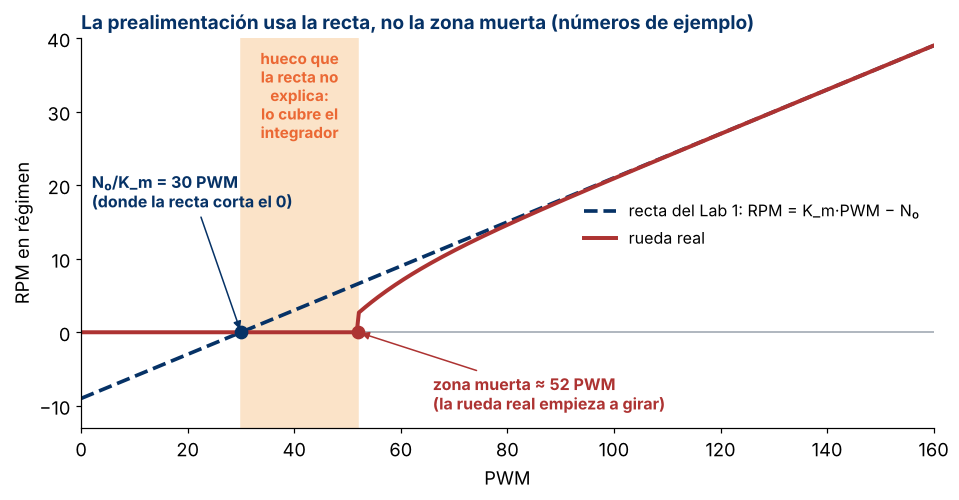
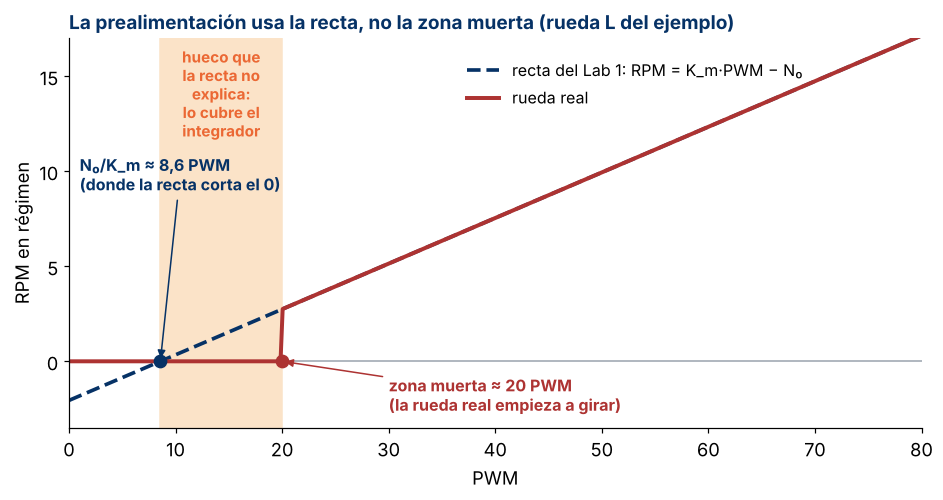
Guía del lazo de RPM v2: notebook, rutas actuales y figuras
- Sección 4 nueva: el notebook taller2_diseno.ipynb en la práctica (antes,
  durante y después del robot), con diagrama de flujo y tabla por sección
- Rutas del proyecto único con selector: src/control_rpm.cpp, src/config.h,
  src/lazo_config.h y PROGRAMA = PROG_CONTROL_RPM (lazo_rpm/ era la versión anterior)
- Figuras: respuesta del motor (K_m, τ, L), ventana de 5 y 10 ms, partes del PWM
  (GIF), efecto de λ (GIF), métricas del escalón y zona muerta con el ejemplo
- README: el procedimiento apunta a la versión 2

diff --git a/GUIA_LAZO_RPM_v2.md b/GUIA_LAZO_RPM_v2.md
@@ -13,8 +13,8 @@
 | Unidad | Modelado del balancín y diseño de los lazos de control |
 | Sesión | 10B · viernes 6 de noviembre de 2026 · 14:00 a 16:00 |
 | Modalidad | Grupal (equipo del proyecto) |
-| Herramientas | Sketch `lazo_rpm/` de este repositorio (PlatformIO o Arduino IDE) y el notebook `notebook/taller2_diseno.ipynb` |
-| Entra con | `resultados/parametros_motor_G<n>.json` del Lab 1 y el `config.h` del Lab 1 |
+| Herramientas | Programa `src/control_rpm.cpp` de este repositorio, que se escoge en `src/main.cpp` (PlatformIO o Arduino IDE), y el notebook `notebook/taller2_diseno.ipynb` (sección 4 de esta guía) |
+| Entra con | `resultados/parametros_motor_G<n>.json` y `src/config.h`, los dos del Lab 1 |
 | Entrega | Con el Taller 2, antes de la clase del miércoles 11 de noviembre |
 
 ---
@@ -31,7 +31,7 @@ Hoy el lazo se diseña con las fórmulas y se verifica en el robot. Si la medida
 
 **Cada rueda tiene su propio lazo, con su propio encoder.** No se usa una rueda como seguidora de la otra.
 
-Si un canal B está dañado, ese encoder cuenta con un solo canal (x2, es decir, dos flancos por pulso) y no puede saber hacia dónde gira la rueda. Entonces el sentido de las cuentas se toma del signo del PWM. El sketch solo cambia ese sentido cuando la rueda está casi detenida, pero cerca del cruce por cero (ensayos B4 y B5) la medida de esa rueda es menos confiable. La solución definitiva es reparar el canal B.
+Si un canal B está dañado, ese encoder cuenta con un solo canal (x2, es decir, dos flancos por pulso) y no puede saber hacia dónde gira la rueda. Entonces el sentido de las cuentas se toma del signo del PWM. El programa solo cambia ese sentido cuando la rueda está casi detenida, pero cerca del cruce por cero (ensayos B4 y B5) la medida de esa rueda es menos confiable. La solución definitiva es reparar el canal B.
 
 ---
 
@@ -60,9 +60,17 @@ $$
 \frac{RPM(s)}{PWM(s)} = \frac{K_m\,e^{-Ls}}{\tau s + 1}
 $$
 
+Así se ve cada parámetro en la respuesta del motor a un escalón de PWM:
+
+![Respuesta del motor a un escalón de PWM](img/lazo_rpm/motor_escalon.png)
+
 ### 3.2 Las partes
 
 El lazo se calcula una vez por **ciclo**, es decir, en cada pasada del programa de control: leer el encoder, calcular y mandar el PWM. El ciclo se repite cada $T_s = 5$ ms. La RPM se mide con las cuentas de los últimos **10 ms** (dos ciclos). Con menos tiempo, una cuenta de más o de menos cambiaría mucho la RPM medida: con unas 2500 cuentas por vuelta, la resolución es de 2,4 RPM con 10 ms y de 4,8 RPM con 5 ms.
+
+![La misma rueda medida con ventanas de 5 y 10 ms](img/lazo_rpm/ventana_medicion.png)
+
+La RPM real cambia suave, pero la medida salta entre valores fijos. Con 5 ms los saltos son del doble, y ese ruido le llega al PI.
 
 El PWM que se manda a cada rueda tiene tres partes:
 
@@ -81,7 +89,16 @@ $r$ es la RPM deseada, $y$ la RPM medida, $e$ el error, $u_{ff}$ la prealimentac
 | Criterio de K | **Por sentido**: con consigna positiva se usan K_m y N₀ de adelante, y con negativa los de atrás | En el equilibrio la rueda cambia de sentido todo el tiempo. El criterio promediado queda para comparar |
 | Modelo de referencia (opcional) | El error se calcula contra la consigna pasada por un filtro de primer orden con constante de tiempo τ: la respuesta que se espera del motor | Durante la subida, el error es pequeño, el PI deja de empujar de más y baja el sobrepico |
 
-Así queda en el código, en la función `pasoLazo()`, que se llama una vez por ciclo para cada rueda:
+La animación muestra qué pone cada parte en un escalón de 10 a 30 RPM, con el motor del ejemplo:
+
+![Qué pone cada parte del PWM en un escalón](img/lazo_rpm/partes_pwm.gif)
+
+- **Antes del escalón**, $u_{ff}$ pone casi todo el PWM y la integral cubre lo poco que falta.
+- **En el escalón**, $u_{ff}$ salta de una vez al PWM de 30 RPM y la parte P reacciona al error.
+- **Durante la subida**, la integral sigue sumando mientras haya error. Esa suma es la que produce el sobrepico.
+- **En régimen**, el error es casi cero, P también, y la integral corrige lo que la recta no explica.
+
+Así queda en el código, en la función `pasoLazo()` de `src/control_rpm.cpp`, que se llama una vez por ciclo para cada rueda:
 
 ```cpp
 static float pasoLazo(Rueda &w, float r, float y, float dt)
@@ -138,6 +155,12 @@ $$T_i = \tau, \qquad K_p = \frac{\tau}{K_m(\lambda + L_{total})}, \qquad K_i = \
 | $\lambda$ | La constante de tiempo que **ustedes** le piden al lazo cerrado. Más pequeña: más rápido, pero más sobrepico y más ruido en el PWM. Se empieza con **λ = 50 ms** |
 | $L_{total}$ | Todos los retardos que ve el lazo: el del motor ($L$), medio periodo de muestreo ($T_s/2$) y media ventana de medición ($T_v/2$, con $T_v = 10$ ms). Con $T_s = 5$ ms son unos 10 ms |
 
+La animación muestra el efecto de $\lambda$ con solo el PI, sin prealimentación (como en el ensayo B8):
+
+![Efecto de λ en la respuesta y en el PWM](img/lazo_rpm/efecto_lambda.gif)
+
+Con $\lambda$ pequeña, $K_p$ y $K_i$ crecen: la rueda sube más rápido, pero el PWM salta más y repite más el ruido de la medida. Con $\lambda$ grande la respuesta es más lenta y el PWM más suave.
+
 Sin prealimentación, el lazo cerrado es de primer orden con constante de tiempo $\lambda$. Con prealimentación, la subida la pone casi toda el motor, porque el PWM correcto llega de una vez, y el PI corrige lo que falta. Por eso el escalón sale más rápido que $\lambda$, pero con sobrepico.
 
 **¿Por qué la prealimentación usa $N_0/K_m$ y no la zona muerta que midieron?** $N_0/K_m$ es el PWM donde la recta, extendida hacia abajo, llega a 0 RPM. La rueda real se detiene antes, porque por debajo de la zona muerta no gira de forma sostenida:
@@ -148,7 +171,29 @@ Entre $N_0/K_m$ y la zona muerta queda un hueco que la recta no explica, y ese h
 
 ---
 
-## 4. Materiales
+## 4. El notebook `taller2_diseno.ipynb` en esta práctica
+
+El notebook es la parte de esta práctica que se hace en el computador. Hace tres cosas: diseña el lazo con el modelo del Lab 1, predice cómo debe responder cada rueda y, al final, compara esa predicción con lo que se midió en el robot. Por eso se usa **antes** y **después** del trabajo en el robot:
+
+<img src="img/lazo_rpm/notebook_flujo.png" alt="Orden de trabajo entre el notebook y el robot" width="460">
+
+| Cuándo | Sección del notebook | Qué hace | Qué entrega |
+|---|---|---|---|
+| Antes (paso A4) | 0. Configuración | Se escriben el grupo y la ruta de su JSON | — |
+| | 1. Revisión del JSON | Revisa cada parámetro del Lab 1 y lo marca OK, REVISAR o FALTA | Saber si se puede confiar en el modelo |
+| | A.1 y A.2 | Calcula Kp y Ki de cada rueda y sentido con las fórmulas de la sección 3.3 | La tabla de Kp y Ki, y el archivo `src/lazo_config.h` |
+| | A.3 | Simula el lazo con el mismo algoritmo del programa, línea por línea, y con el motor del Lab 1 | La predicción del escalón de 10 a 30 RPM |
+| En el robot (partes A y B) | — | No se usa: se carga el programa y se hacen los ensayos | Los CSV en `datos/G<n>_lazo/` |
+| Después (parte C) | A.4 | Simula cada ensayo con el mismo diseño con que se corrió y lo compara con la medida | La tabla de medida frente a modelo |
+| | Preguntas 4 y 5 | Análisis con los números de su robot | Las respuestas para la entrega |
+
+El orden no se puede cambiar. El programa del robot necesita `src/lazo_config.h`, y ese archivo lo escribe el notebook. A su vez, la comparación de la parte C necesita los ensayos medidos.
+
+La parte B del notebook (B.1 a B.5: la rueda como fuente de velocidad y las ganancias del equilibrio) no es de esta práctica. Es el resto del Taller 2, y se usa en la guía de la estructura de estados.
+
+---
+
+## 5. Materiales
 
 | Elemento | Detalle |
 |---|---|
@@ -156,29 +201,39 @@ Entre $N_0/K_m$ y la zona muerta queda un hueco que la recta no explica, y ese h
 | Cable USB | Al puerto UART/COM de la placa |
 | Multímetro | Para medir la batería |
 | Computador | VS Code con PlatformIO (o Arduino IDE) y Python con Jupyter (VS Code o Google Colab) |
-| Archivos del Lab 1 | `parametros_motor_G<n>.json` y `config.h` |
+| Archivos del Lab 1 | `parametros_motor_G<n>.json` y `src/config.h` |
 
 ---
 
-## 5. Procedimiento
+## 6. Procedimiento
 
 ### Parte A · Diseño y preparación (15 min)
 
 | Paso | Qué hacer | Qué deben ver | Si sale mal |
 |---|---|---|---|
-| A1 | Actualicen este repositorio (`git pull` o *Download ZIP*) | Las carpetas `lazo_rpm/` y `datos/ejemplo_sintetico_lazo/` | — |
+| A1 | Actualicen este repositorio (`git pull` o *Download ZIP*) | `src/control_rpm.cpp` y la carpeta `datos/ejemplo_sintetico_lazo/` | — |
 | A2 | Si su JSON no dice `"version": 2`, vuelvan a ejecutar `ajuste_motor.ipynb` con sus datos del Lab 1 | `"version": 2` en el JSON | — |
-| A3 | Copien **su** `config.h` del Lab 1 encima de `lazo_rpm/src/config.h`, tal cual | — | Si lo editan a mano, repitan la prueba de sentido del Lab 1 |
-| A4 | En `taller2_diseno.ipynb`, celda 0, cambien `GRUPO` y `RUTA_JSON`. Ejecuten hasta la sección A.2 | El semáforo del JSON, la tabla de Kp y Ki, y el archivo `lazo_rpm/src/lazo_config.h` escrito | Si hay un FALTA, completen el Lab 1. Si hay un REVISAR, sepan explicarlo |
-| A5 | Abran la carpeta `lazo_rpm` en VS Code como proyecto de PlatformIO. Compilen y carguen | El mensaje de arranque con el modelo de cada rueda y sus Kp y Ki | Si un encoder está en un pin de arranque (GPIO 0, 3, 45 o 46), desconéctelo mientras carga |
+| A3 | Revisen que `src/config.h` sea **el suyo** del Lab 1: pines, signos y cuentas por vuelta. Los dos programas lo comparten. Si descargaron el ZIP, copien el suyo encima, tal cual | — | Si lo editan a mano, repitan la prueba de sentido del Lab 1 |
+| A4 | En `taller2_diseno.ipynb`, celda 0, cambien `GRUPO` y `RUTA_JSON`. Ejecuten hasta la sección A.3 (sección 4 de esta guía) | El semáforo del JSON, la tabla de Kp y Ki, el archivo `src/lazo_config.h` escrito y la predicción del escalón | Si hay un FALTA, completen el Lab 1. Si hay un REVISAR, sepan explicarlo |
+| A5 | En `src/main.cpp` dejen `#define PROGRAMA  PROG_CONTROL_RPM`. Compilen y carguen el proyecto, abierto desde la carpeta raíz del repositorio | El mensaje de arranque con el modelo de cada rueda y sus Kp y Ki | Si un encoder está en un pin de arranque (GPIO 0, 3, 45 o 46), desconéctelo mientras carga |
 | A6 | Comparen los Kp y Ki del monitor con la tabla del notebook | Iguales en las dos ruedas y en los dos sentidos | Si no coinciden, el `lazo_config.h` no es el de su JSON |
 | A7 | Midan la batería y anótenla: `b 7.9` (con su valor) | `Batería: 7.90 V` | — |
 
-**Arduino IDE:** creen una carpeta `lazo_rpm`, copien ahí `config.h`, `lazo_config.h` y `main.cpp`, y cambien el nombre de `main.cpp` a `lazo_rpm.ino`.
+**Arduino IDE:** creen una carpeta `control_rpm`, copien ahí `src/config.h`, `src/lazo_config.h` y `src/control_rpm.cpp`, y cambien el nombre de `control_rpm.cpp` a `control_rpm.ino`.
 
 ### Parte B · Escalones de consigna en el robot (20 min)
 
 Robot en el soporte, ruedas en el aire. Cada escalón dura 2,2 s: 500 ms en la base, 1000 ms en el escalón y 700 ms de regreso a la base. **Enter detiene los motores en cualquier momento.**
+
+En cada escalón se miden tres cosas:
+
+![Un escalón y lo que se mide en él](img/lazo_rpm/escalon_metricas.png)
+
+- **Subida 10–90 %:** el tiempo que tarda la RPM medida en pasar del 10 % al 90 % del salto. En un escalón de 10 a 30 RPM, de 12 a 28 RPM.
+- **Sobrepico:** cuánto se pasa la RPM de la consigna, como porcentaje del salto: $(\text{máximo} - 30)/20 \times 100\ \%$.
+- **Error en régimen:** la consigna menos el promedio de la RPM medida cuando ya se estabilizó. Se usa el promedio porque la medida salta de a unas 2,3 RPM (sección 3.2).
+
+El programa imprime estos tres números al final de cada ensayo, en el resultado rápido. Para el error usa el promedio de la segunda mitad del escalón. Para la subida y el sobrepico usa una ventana de 20 ms, que tiene menos ruido que la de 10 ms del lazo.
 
 | Paso | Comando | Para qué | Qué mirar en el resultado rápido |
 |---|---|---|---|
@@ -203,15 +258,15 @@ Guarden cada bloque entre `INICIO_CSV` y `FIN_CSV` en `datos/G<n>_lazo/`, por ej
 
 ---
 
-## 6. Preguntas de análisis
+## 7. Preguntas de análisis
 
 Están al final del notebook. Las preguntas **4 y 5** son de esta práctica. Respóndanlas con los números de su robot.
 
 ---
 
-## 7. Criterios de éxito
+## 8. Criterios de éxito
 
-- [ ] Los Kp y Ki que imprime el sketch coinciden con los del notebook.
+- [ ] Los Kp y Ki que imprime el programa coinciden con los del notebook.
 - [ ] Las dos ruedas siguen la consigna en los dos sentidos.
 - [ ] Error en régimen menor que 0,5 RPM entre 10 y 50 RPM.
 - [ ] Subida 10–90 % menor que 60 ms en el escalón de 10 a 30 RPM.
@@ -222,11 +277,11 @@ Están al final del notebook. Las preguntas **4 y 5** son de esta práctica. Res
 
 ---
 
-## 8. Errores frecuentes
+## 9. Errores frecuentes
 
 | Síntoma | Causa probable | Qué hacer |
 |---|---|---|
-| Una rueda se dispara al máximo apenas arranca el ensayo | El signo del motor o del encoder quedó mal y el lazo realimenta positivo | Enter. Copien de nuevo el `config.h` del Lab 1 y repitan la prueba de sentido |
+| Una rueda se dispara al máximo apenas arranca el ensayo | El signo del motor o del encoder quedó mal y el lazo realimenta positivo | Enter. Revisen que `src/config.h` sea el del Lab 1 y repitan la prueba de sentido |
 | La rueda gira visiblemente más rápido o más lento de lo pedido, o el PWM en régimen es el doble o la mitad del que da el modelo | Las cuentas por vuelta del `config.h` no son las medidas. El lazo sigue la consigna, pero con la escala equivocada | Revisen `CUENTAS_VUELTA_L` y `_R`. Comprueben con una marca en la rueda: `r A 30` son 30 vueltas por minuto, una cada 2 s |
 | El motor zumba en régimen | Kp alto para el ruido de la medida: la RPM con ventana de 10 ms cambia en saltos de unas 2,4 RPM, y Kp multiplica esos saltos | Suban λ (`l 70`) y comparen el ruido del PWM |
 | La subida medida es más lenta que la del modelo | La batería está más baja que en el Lab 1, así que el $K_m$ real es menor | Midan la batería (`b`). La subida depende de la prealimentación |
@@ -235,9 +290,9 @@ Están al final del notebook. Las preguntas **4 y 5** son de esta práctica. Res
 
 ---
 
-## 9. Recursos de apoyo
+## 10. Recursos de apoyo
 
-- `README.md` de este repositorio: comandos del sketch `lazo_rpm` y problemas comunes.
+- `README.md` de este repositorio: cómo escoger el programa, comandos de `control_rpm` y problemas comunes.
 - `notebook/taller2_diseno.ipynb`: diseño, modelo en lazo cerrado y comparación con la medida.
 - `GUIA.md`: el Lab 1, de donde salen $K_m$, $N_0$, $\tau$ y $L$.
 - `GUIA_ESTRUCTURA_ESTADOS.md`, sección 4.1: por qué el ciclo es de 5 ms y la ventana de 10 ms.

diff --git a/README.md b/README.md
@@ -127,7 +127,7 @@ Si su JSON no dice `"version": 2`, vuelva a ejecutar el notebook con sus mismos 
 
 ## Lazo de RPM (Taller 2)
 
-El programa `src/control_rpm.cpp` cierra un lazo de RPM en cada rueda, cada 5 ms, con el modelo del Lab 1. Usa una prealimentación con la inversa de la recta, un PI por cancelación de polo (Ti = τ, Kp = τ/(K_m·(λ + L_total))) e integración condicional. El procedimiento está en [GUIA_LAZO_RPM.md](GUIA_LAZO_RPM.md).
+El programa `src/control_rpm.cpp` cierra un lazo de RPM en cada rueda, cada 5 ms, con el modelo del Lab 1. Usa una prealimentación con la inversa de la recta, un PI por cancelación de polo (Ti = τ, Kp = τ/(K_m·(λ + L_total))) e integración condicional. El procedimiento está en [GUIA_LAZO_RPM_v2.md](GUIA_LAZO_RPM_v2.md). La primera versión, [GUIA_LAZO_RPM.md](GUIA_LAZO_RPM.md), se conserva sin cambios.
 
 1. Use el mismo `src/config.h` del Lab 1 (pines, signos y cuentas por vuelta). No hay que copiarlo: los dos programas lo comparten.
 2. Genere `src/lazo_config.h` con la sección A.2 de `notebook/taller2_diseno.ipynb`. El que viene en el repositorio tiene los valores del ejemplo sintético.
